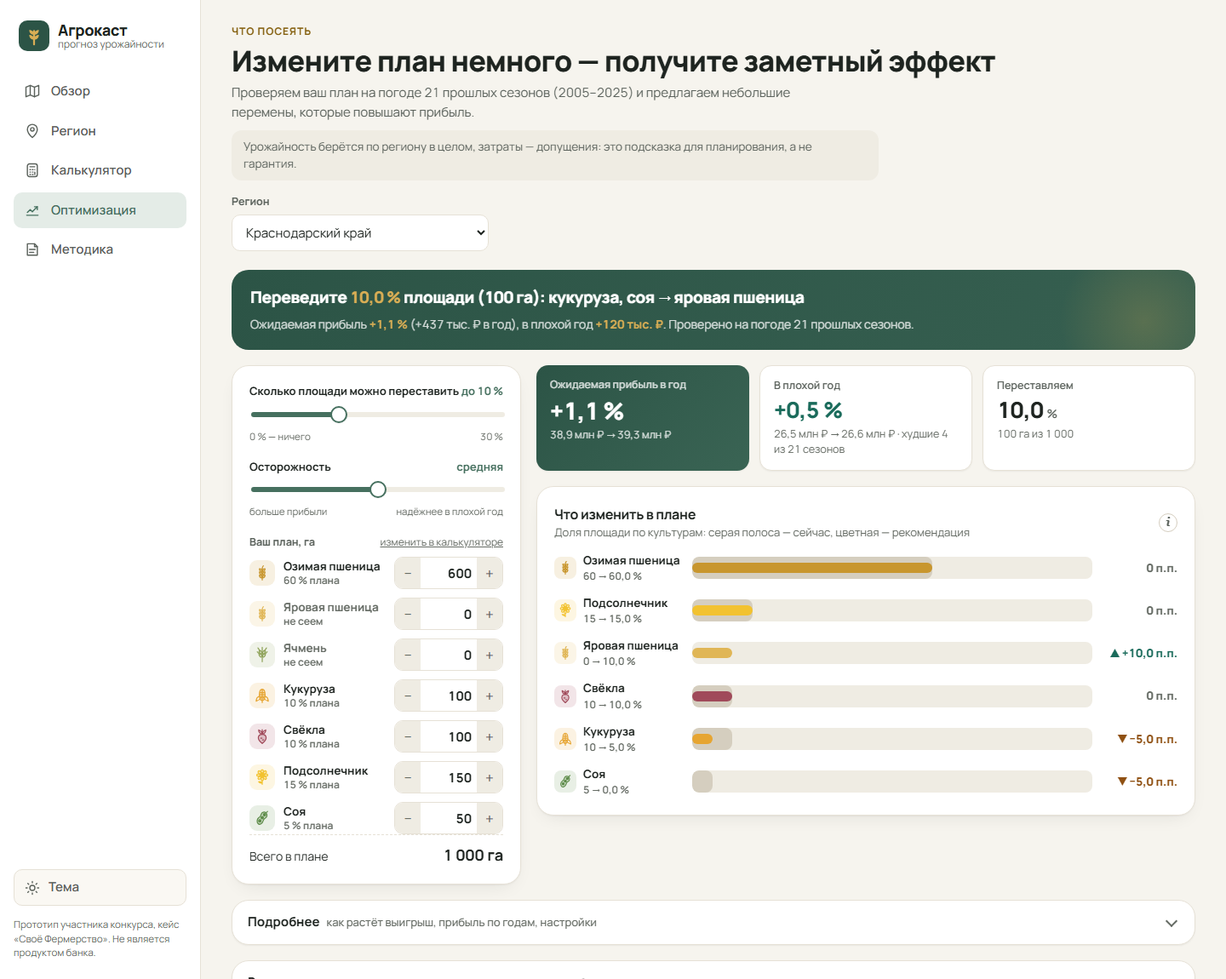
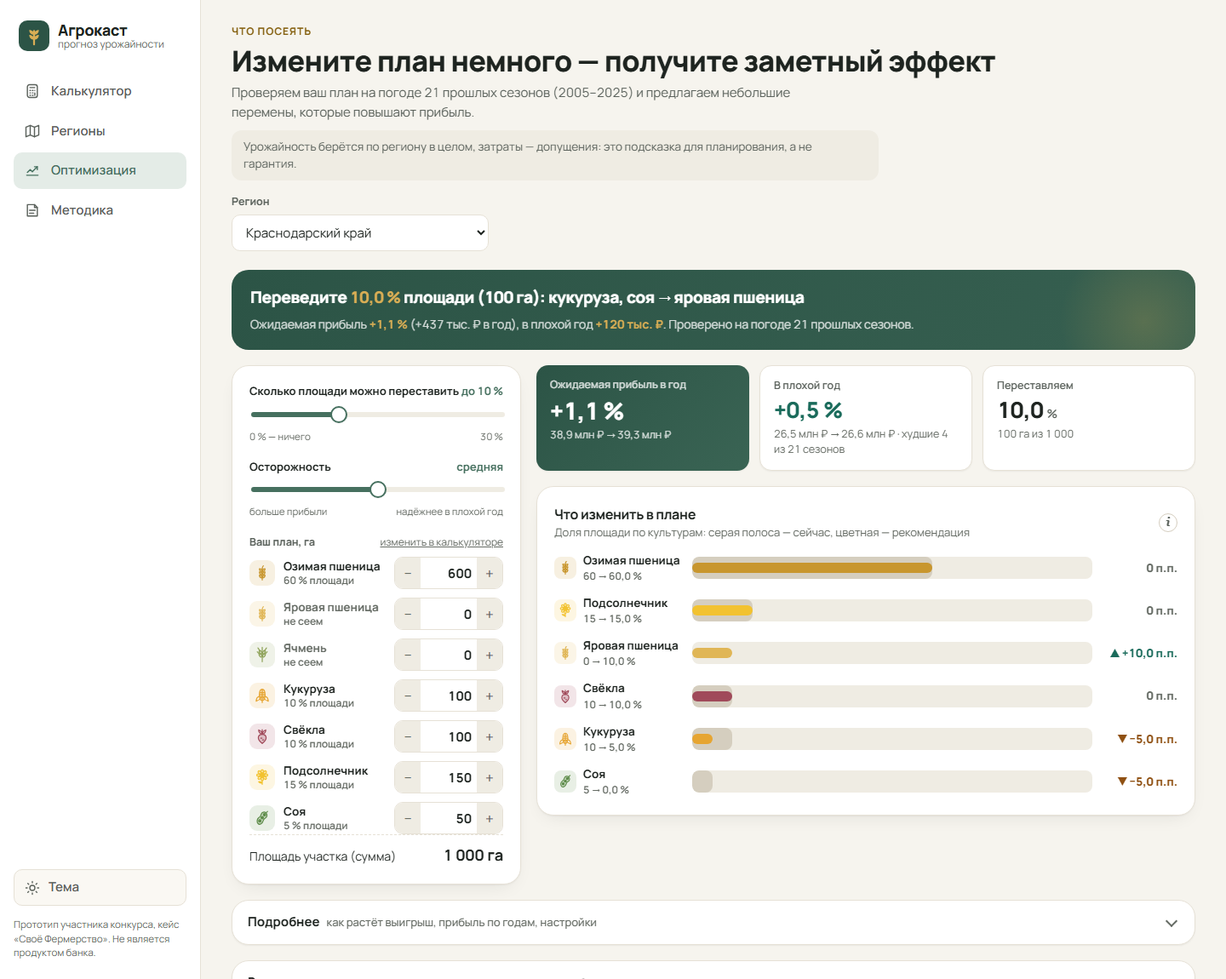
Site: product is the plot calculator (default page), regions as context

Changed region(s): [[0.0, 0.1217, 0.1562, 0.2739], [0.2188, 0.8217, 0.3125, 0.8826], [0.0312, 0.0913, 0.0938, 0.1217]]

diff --git a/web/js/calc.js b/web/js/calc.js
@@ -1,4 +1,4 @@
-// Экран «Калькулятор хозяйства»: план посевов в гектарах + поправки → урожайность, сбор, выручка, затраты, маржа.
+// Экран «Калькулятор участка»: параметры участка (регион, план в гектарах, почва, сорт, агротехника, дата) → результат по культурам.
 import { D, crop, regionName, regionsAll } from './data.js';
 import { cropIcon } from './icons.js';
 import { calcState, newCalc, presetPlan, clearPlan, syncPlan, cropEcon, ADJ, multipliers } from './econ.js';
@@ -18,14 +18,14 @@ export function haEditor(cfg, onChange) {
     </div>`;
   }).join('');
   const html = `<div class="ha-rows" id="haRows">${rowsHtml}</div>
-    <div class="ha-total"><span>Всего в плане</span><b class="num" id="haTotal"></b></div>`;
+    <div class="ha-total"><span>Площадь участка (сумма)</span><b class="num" id="haTotal"></b></div>`;
   const paint = (root) => {
     root.querySelectorAll('.ha-row').forEach((row) => {
       const cc = row.dataset.cc, v = Math.round(cfg.ha[cc] || 0);
       const inp = row.querySelector('input');
       if (document.activeElement !== inp) inp.value = v;
       row.classList.toggle('off', !v);
-      row.querySelector('.sh').textContent = cfg.area > 0 && v ? `${fmt((v / cfg.area) * 100, 0)} % плана` : 'не сеем';
+      row.querySelector('.sh').textContent = cfg.area > 0 && v ? `${fmt((v / cfg.area) * 100, 0)} % площади` : 'не сеем';
     });
     const t = root.querySelector('#haTotal');
     if (t) t.textContent = fmt(cfg.area, 0) + ' га';
@@ -46,38 +46,46 @@ export const planEditor = haEditor;
 const selectHtml = (id, list, val, label) => `<div class="field"><label for="${id}">${label}</label>
   <select class="select" id="${id}">${list.map((x) => `<option value="${x.id}" ${x.id === val ? 'selected' : ''}>${esc(x.label)}</option>`).join('')}</select></div>`;
 
+// Поповер «Как считается» — честно: что из модели, что допущение
+export const HOW = `<span class="how">Как считается ${info(
+  'Климат и погода региона и сезона — из обученной модели «тренд × погода» (данные ЕМИСС и ERA5). Это базовая урожайность «среднего хозяйства региона».',
+  'Влияние почвы, сорта и агротехники — множители-допущения: открытых данных об урожайности по сортам и агротехнике хозяйств нет, поэтому они не оценены по данным. Прогноз для вашего участка = прогноз региона, скорректированный на эти множители. Цены — ЕМИСС 2026, затраты на гектар — допущения.', 'left')}</span>`;
+
 export function renderCalc(el) {
   const cfg = calcState();
   const a = ADJ();
   el.innerHTML = `
   <div class="page-head">
     <div>
-      <div class="eyebrow">Калькулятор хозяйства</div>
-      <h1>Сколько соберёте и сколько заработаете</h1>
-      <p class="lead">Задайте, сколько гектаров под какой культурой, — получите урожайность, сбор, выручку и маржу.</p>
-      <span class="frame"><b>Как считаем:</b> берём прогноз по вашему региону в целом — так, как будто ваши поля урожайны, как в среднем по региону. Отличия ваших полей учтите поправками ниже.</span>
+      <div class="eyebrow">Калькулятор участка</div>
+      <h1>Рассчитайте урожай своего участка</h1>
+      <p class="lead">Введите регион, площадь, почву, сорт и агротехнику — получите урожайность в т/га, общий сбор, выручку и маржу для нескольких культур. Прогноз строится по погоде и данным вашего региона.</p>
+      <span class="frame">Прогноз для вашего участка = прогноз региона, скорректированный на почву, сорт и агротехнику. ${HOW}</span>
     </div>
     <a class="btn" href="#/optimize"><svg viewBox="0 0 24 24"><path d="M5 15l4-4 3 3 7-7"/><path d="M15 7h4v4"/></svg>Что посеять</a>
   </div>
-  <div class="grid g-calc">
-    <div class="card stack" style="gap:16px">
-      <div class="card-head" style="margin:0"><h3>Ваше хозяйство</h3></div>
-      <div class="field"><label for="cReg">Регион</label><select class="select" id="cReg">${regionsAll().map((r) => `<option value="${r}" ${r === cfg.region ? 'selected' : ''}>${esc(regionName(r))}</option>`).join('')}</select></div>
-      <div class="field"><label for="cDate">На какую дату считать</label><select class="select" id="cDate">${D.dates.map((d, i) => `<option value="${i}" ${i === cfg.dateIdx ? 'selected' : ''}>${isFinalDate(i) ? 'Итог сезона (по фактической погоде)' : 'Прогноз на ' + d.label}</option>`).join('')}</select><span class="hint" id="cDateNote"></span></div>
-      <div>
-        <div class="card-head" style="margin:4px 0 8px"><span class="field-label">План посевов, га</span>
-          <div class="preset-row"><button class="btn ghost" id="cPreset" type="button">Типовой план региона</button><button class="btn ghost" id="cClear" type="button">Очистить</button></div></div>
-        <div id="plan"></div>
+  <div class="card params">
+    <div class="card-head" style="margin-bottom:14px"><h3>Параметры участка</h3></div>
+    <div class="params-grid">
+      <div class="stack" style="gap:16px">
+        <div class="field"><label for="cReg">Регион</label><select class="select" id="cReg">${regionsAll().map((r) => `<option value="${r}" ${r === cfg.region ? 'selected' : ''}>${esc(regionName(r))}</option>`).join('')}</select></div>
+        <div class="field"><label for="cDate">На какую дату считать</label><select class="select" id="cDate">${D.dates.map((d, i) => `<option value="${i}" ${i === cfg.dateIdx ? 'selected' : ''}>${isFinalDate(i) ? 'Итог сезона (по фактической погоде)' : 'Прогноз на ' + d.label}</option>`).join('')}</select><span class="hint" id="cDateNote"></span></div>
       </div>
-      <div class="card-head" style="margin:6px 0 0"><h3>Поправки на ваши поля</h3>${info('Открытых данных о сорте, почве и агротехнике по отдельным полям нет, поэтому это ваши собственные поправки: они умножают прогноз региона.', 'Их можно оставить по умолчанию — тогда расчёт равен региональному.')}</div>
-      ${selectHtml('cSoil', a.soil, cfg.soil, 'Почва относительно региона')}
-      ${selectHtml('cVar', a.variety, cfg.variety, 'Сорт / гибрид')}
-      ${selectHtml('cTech', a.tech, cfg.tech, 'Агротехника')}
-      <div class="field"><label for="cAdj">Ваша поправка к урожайности, %</label><input class="input num" id="cAdj" type="number" min="-50" max="50" step="1" value="${cfg.adj || 0}"><span class="hint">Если по опыту ваши поля урожайнее (+) или слабее (−) средних по региону</span></div>
-      <div class="chip-note" id="multNote"></div>
+      <div class="stack" style="gap:16px">
+        ${selectHtml('cSoil', a.soil, cfg.soil, 'Почва участка относительно региона')}
+        ${selectHtml('cVar', a.variety, cfg.variety, 'Сорт семян')}
+        ${selectHtml('cTech', a.tech, cfg.tech, 'Агротехника')}
+        <div class="field"><label for="cAdj">Ваша поправка к урожайности, %</label><input class="input num" id="cAdj" type="number" min="-50" max="50" step="1" value="${cfg.adj || 0}"><span class="hint">Если по опыту ваши поля урожайнее (+) или слабее (−) средних по региону</span></div>
+        <div class="chip-note" id="multNote"></div>
+      </div>
     </div>
-    <div class="stack" id="out"></div>
-  </div>`;
+    <div style="margin-top:18px">
+      <div class="card-head" style="margin:0 0 10px"><span class="field-label">План посевов, га (площадь по культурам)</span>
+        <div class="preset-row"><button class="btn ghost" id="cPreset" type="button">Типовой план региона</button><button class="btn ghost" id="cClear" type="button">Очистить</button></div></div>
+      <div id="plan"></div>
+    </div>
+  </div>
+  <div class="stack" id="out" style="margin-top:18px"></div>`;
 
   const out = el.querySelector('#out');
   let marginChart = null;
@@ -103,7 +111,7 @@ export function renderCalc(el) {
   function update() {
     const m = multipliers(cfg);
     el.querySelector('#cDateNote').textContent = dateNote(cfg.dateIdx);
-    el.querySelector('#multNote').textContent = `Итого к региональному прогнозу: урожайность ×${fmt(m.y, 2)}, затраты ×${fmt(m.c, 2)}.`;
+    el.querySelector('#multNote').textContent = `Итого к прогнозу региона: урожайность ×${fmt(m.y, 2)}, затраты ×${fmt(m.c, 2)} (допущения).`;
     if (cfg.area <= 0) {
       out.innerHTML = `<div class="card empty-hint"><h3 style="margin-bottom:6px">Задайте план посевов</h3><p style="margin:0 0 14px">Введите гектары хотя бы по одной культуре — или возьмите типовой план региона.</p><button class="btn" id="cPreset2" type="button">Типовой план региона</button></div>`;
       out.querySelector('#cPreset2').addEventListener('click', () => { presetPlan(cfg, 1000); redraw(); });
@@ -116,33 +124,41 @@ export function renderCalc(el) {
       out.innerHTML = `
       <div class="kpis" id="cK" style="grid-template-columns:repeat(auto-fit,minmax(170px,1fr))"></div>
       <div class="card">
-        <div class="card-head"><div><h3>Что получится по культурам</h3><div class="sub" id="cSub"></div></div>${info('Урожайность — региональный прогноз итоговой модели с вашими поправками. Цены — средние цены производителей 2026 г. (ЕМИСС).', 'Затраты на гектар — допущения по открытым обзорам отрасли, не норматив.')}</div>
+        <div class="card-head"><div><h3>Что получится по культурам</h3><div class="sub" id="cSub"></div></div>${HOW}</div>
         <div class="table-wrap" id="cTbl"></div>
       </div>
-      <div class="card"><div class="card-head"><h3 id="cScenTitle">Плохой, обычный и хороший год</h3></div><div class="scen" id="cScen"></div>
-        <p class="chip-note" style="margin:12px 0 0">«Плохой» и «хороший» год — границы 80 % интервала: такой результат или хуже (лучше) бывает примерно раз в 10 лет.</p></div>
+      <div class="card"><div class="card-head"><h3>Плохой, обычный и хороший год</h3></div><div class="scen" id="cScen"></div>
+        <p class="chip-note" style="margin:12px 0 0">«Плохой» и «хороший» год — границы 80 % интервала прогноза: такой результат или хуже (лучше) бывает примерно раз в 10 лет.</p></div>
+      <div class="card gives" id="cGives"></div>
       <details class="more"><summary><span>Подробнее<small>маржа по культурам</small></span></summary><div class="more-body"><div class="chart" id="cMargin"></div></div></details>`;
       marginChart = null;
       out.querySelector('.more').addEventListener('toggle', (e) => { if (e.target.open) { marginChart = chart(out.querySelector('#cMargin')); update(); } });
     }
     out.querySelector('#cK').innerHTML = `
-      <div class="kpi"><div class="label">Сбор</div><div class="value num">${fmt(volT, 0)}<small>т</small></div><div class="foot">${fmt(cfg.area, 0)} га · ${rows.length} культур${rows.length === 1 ? 'а' : rows.length < 5 ? 'ы' : ''}</div></div>
+      <div class="kpi"><div class="label">Общий сбор</div><div class="value num">${fmt(volT, 0)}<small>т</small></div><div class="foot">${fmt(cfg.area, 0)} га · ${rows.length} культур${rows.length === 1 ? 'а' : rows.length < 5 ? 'ы' : ''}</div></div>
       <div class="kpi"><div class="label">Выручка</div><div class="value num">${fmtMoney(tot.revenue)}</div><div class="foot">затраты ${fmtMoney(tot.cost)} (допущение)</div></div>
       <div class="kpi hero"><div class="label">Маржа</div><div class="value num">${fmtMoney(tot.margin)}</div><div class="foot">${fmt(tot.margin / cfg.area / 1000, 1)} тыс. ₽ с гектара</div></div>`;
     out.querySelector('#cSub').textContent = `${regionName(cfg.region)} · ${fmt(cfg.area, 0)} га · ${isFinalDate(cfg.dateIdx) ? 'оценка по фактической погоде сезона' : 'прогноз на ' + D.dates[cfg.dateIdx].label}`;
 
-    out.querySelector('#cTbl').innerHTML = `<table class="table"><thead><tr><th>Культура</th><th>Площадь, га</th><th>Урожайность, т/га</th><th>Сбор, т</th><th>Выручка</th><th>Маржа</th></tr></thead><tbody>
+    out.querySelector('#cTbl').innerHTML = `<table class="table"><thead><tr><th>Культура</th><th>Площадь, га</th><th>Урожайность, т/га</th><th>Общий сбор, т</th><th>Выручка</th><th>Затраты</th><th>Маржа</th></tr></thead><tbody>
       ${rows.map((r) => { const c = crop(r.cc), dg = r.cc === '3060100' ? 1 : 2; return `<tr>
         <td><div class="crop-cell"><span class="ico" style="color:${c.color};background:${alpha(c.color, .14)}">${cropIcon(c)}</span>${c.short}</div></td>
         <td class="num">${fmt(r.ha, 0)}</td><td class="num"><b>${fmt(r.y.p50, dg)}</b><span class="sub-line">${fmt(r.y.p10, dg)}–${fmt(r.y.p90, dg)}</span></td>
-        <td class="num"><b>${fmt(r.vol, 0)}</b></td><td class="num">${fmtMoney(r.revenue)}<span class="sub-line">${fmt(r.price, 0)} ₽/т</span></td>
-        <td class="num" style="color:${r.margin >= 0 ? 'var(--pos)' : 'var(--neg)'}"><b>${fmtMoney(r.margin)}</b><span class="sub-line">затраты ${fmtMoney(r.cost)}</span></td></tr>`; }).join('')}
-      </tbody><tfoot><tr><td>Итого</td><td class="num">${fmt(cfg.area, 0)}</td><td></td><td class="num">${fmt(volT, 0)}</td><td class="num">${fmtMoney(tot.revenue)}</td><td class="num">${fmtMoney(tot.margin)}<span class="sub-line">затраты ${fmtMoney(tot.cost)}</span></td></tr></tfoot></table>`;
+        <td class="num"><b>${fmt(r.vol, 0)}</b></td><td class="num">${fmtMoney(r.revenue)}<span class="sub-line">${fmt(r.price, 0)} ₽/т</span></td><td class="num">${fmtMoney(r.cost)}</td>
+        <td class="num" style="color:${r.margin >= 0 ? 'var(--pos)' : 'var(--neg)'}"><b>${fmtMoney(r.margin)}</b></td></tr>`; }).join('')}
+      </tbody><tfoot><tr><td>Итого</td><td class="num">${fmt(cfg.area, 0)}</td><td></td><td class="num">${fmt(volT, 0)}</td><td class="num">${fmtMoney(tot.revenue)}</td><td class="num">${fmtMoney(tot.cost)}</td><td class="num">${fmtMoney(tot.margin)}</td></tr></tfoot></table>`;
 
     out.querySelector('#cScen').innerHTML = `
       <div class="bad"><div class="t">Плохой год</div><div class="v num">${fmtMoney(tot.lo)}</div><div class="f">маржа, раз в ~10 лет хуже</div></div>
       <div><div class="t">Обычный год</div><div class="v num">${fmtMoney(tot.margin)}</div><div class="f">ожидаемая маржа</div></div>
       <div class="good"><div class="t">Хороший год</div><div class="v num">${fmtMoney(tot.hi)}</div><div class="f">маржа, раз в ~10 лет лучше</div></div>`;
+
+    out.querySelector('#cGives').innerHTML = `<div class="card-head"><h3>Что это даёт для планирования</h3></div>
+      <ul class="gives-list">
+        <li><b>Затраты.</b> На сезон понадобится около <b>${fmtMoney(tot.cost)}</b> (${fmt(tot.cost / cfg.area / 1000, 0)} тыс. ₽ на гектар, допущение) — столько нужно иметь или привлечь до посевной.</li>
+        <li><b>Доход.</b> В обычный год выручка около <b>${fmtMoney(tot.revenue)}</b>, маржа ${fmtMoney(tot.margin)}; в плохой год маржа ${tot.lo >= 0 ? 'остаётся' : 'уходит в минус:'} <b>${fmtMoney(tot.lo)}</b>, в хороший — ${fmtMoney(tot.hi)}. Запас на плохой год стоит заложить заранее.</li>
+        <li><b>Что менять.</b> Небольшой перенос площади между культурами может поднять прибыль и сделать плохой год мягче. <a href="#/optimize">Посмотреть в оптимизации →</a></li>
+      </ul>`;
 
     if (marginChart) {
       marginChart.setOption(opt({

diff --git a/web/js/overview.js b/web/js/overview.js
@@ -58,15 +58,15 @@ export function renderOverview(el) {
   el.innerHTML = `
   <div class="page-head" style="margin-bottom:14px">
     <div>
-      <div class="eyebrow">Сезон 2026</div>
+      <div class="eyebrow">Регионы · сезон 2026</div>
       <h1>Прогноз урожайности по регионам России</h1>
-      <p class="lead">Прогноз на каждый месяц сезона и подсказка, как немного изменить посевы, чтобы заработать больше.</p>
-      <span class="frame">Прогноз — для региона в целом (среднее по хозяйствам субъекта), а не для отдельного поля.</span>
+      <p class="lead">Региональная модель — основа калькулятора участка: где и насколько урожай ожидается выше или ниже обычного.</p>
+      <span class="frame">Это прогноз для региона в целом (среднее по хозяйствам субъекта), а не для отдельного поля.</span>
     </div>
   </div>
   <nav class="entry" aria-label="Разделы">
-    <a href="#/overview" class="here" id="goMap"><span class="ei">${IC.map}</span><span><b>Прогноз по регионам</b><small>Карта: где урожай выше или ниже обычного</small></span></a>
-    <a href="#/calc"><span class="ei">${IC.calc}</span><span><b>Калькулятор хозяйства</b><small>Сбор, выручка и маржа по вашему плану</small></span></a>
+    <a href="#/calc" class="here"><span class="ei">${IC.calc}</span><span><b>Рассчитать урожай моего участка</b><small>Регион, площадь, почва, сорт, агротехника → т/га, сбор, маржа</small></span></a>
+    <a href="#/overview" id="goMap"><span class="ei">${IC.map}</span><span><b>Прогноз по регионам</b><small>Карта: где урожай выше или ниже обычного</small></span></a>
     <a href="#/optimize"><span class="ei">${IC.opt}</span><span><b>Что посеять</b><small>Как немного изменить план ради прибыли</small></span></a>
   </nav>
   <div class="toolbar" style="margin-bottom:14px" id="cropBar"></div>

diff --git a/web/index.html b/web/index.html
@@ -17,16 +17,15 @@
 <body>
   <div class="app">
     <aside class="sidebar">
-      <a class="brand" href="#/overview">
+      <a class="brand" href="#/calc">
         <span class="brand-mark" aria-hidden="true">
           <svg viewBox="0 0 32 32"><rect width="32" height="32" rx="9" fill="var(--brand)"/><path d="M16 25V11" stroke="var(--gold)" stroke-width="2" stroke-linecap="round"/><path d="M16 15c-3.2 0-5-2-5-5 3.2 0 5 2 5 5Zm0 0c3.2 0 5-2 5-5-3.2 0-5 2-5 5Zm0 5c-3.2 0-5-2-5-5 3.2 0 5 2 5 5Zm0 0c3.2 0 5-2 5-5-3.2 0-5 2-5 5Z" fill="var(--gold)"/></svg>
         </span>
         <span class="brand-text"><b>Агрокаст</b><small>прогноз урожайности</small></span>
       </a>
       <nav class="nav" id="nav">
-        <a href="#/overview" data-route="overview"><svg viewBox="0 0 24 24"><path d="M3 6.5 9 4l6 2.5L21 4v13.5L15 20l-6-2.5L3 20V6.5Z"/><path d="M9 4v13.5M15 6.5V20"/></svg><span>Обзор</span></a>
-        <a href="#/region" data-route="region"><svg viewBox="0 0 24 24"><path d="M12 21s-7-6.1-7-11.5A7 7 0 0 1 19 9.5C19 14.9 12 21 12 21Z"/><circle cx="12" cy="9.5" r="2.5"/></svg><span>Регион</span></a>
         <a href="#/calc" data-route="calc"><svg viewBox="0 0 24 24"><rect x="5" y="3" width="14" height="18" rx="3"/><path d="M8.5 7h7M8.5 11h1M12 11h1M15.5 11h0M8.5 14.5h1M12 14.5h1M8.5 18h1M12 18h1M15.5 14.5V18"/></svg><span>Калькулятор</span></a>
+        <a href="#/overview" data-route="overview"><svg viewBox="0 0 24 24"><path d="M3 6.5 9 4l6 2.5L21 4v13.5L15 20l-6-2.5L3 20V6.5Z"/><path d="M9 4v13.5M15 6.5V20"/></svg><span>Регионы</span></a>
         <a href="#/optimize" data-route="optimize"><svg viewBox="0 0 24 24"><path d="M4 19h16"/><path d="M5 15l4-4 3 3 7-7"/><path d="M15 7h4v4"/></svg><span>Оптимизация</span></a>
         <a href="#/method" data-route="method"><svg viewBox="0 0 24 24"><path d="M5 4h10l4 4v12H5z"/><path d="M15 4v4h4M8 12h8M8 16h6"/></svg><span>Методика</span></a>
       </nav>

diff --git a/web/css/app.css b/web/css/app.css
@@ -471,3 +471,15 @@ input[type="range"]:active::-webkit-slider-thumb { transform: scale(1.15); }
 @media (max-width: 1180px) { .g-calc { grid-template-columns: 1fr; } }
 
 @media (max-width: 520px) { #cK .kpi.hero { grid-column: 1 / -1; } }
+
+/* v3: калькулятор участка — параметры сверху, результат ниже */
+.params { padding: 20px 22px; }
+.params-grid { display: grid; grid-template-columns: repeat(2, minmax(0, 1fr)); gap: 20px 32px; }
+.how { display: inline-flex; align-items: center; gap: 6px; font-size: 13px; font-weight: 600; color: var(--text-2); white-space: nowrap; }
+.info.left .pop { right: auto; left: 0; }
+.gives-list { margin: 0; padding-left: 18px; display: flex; flex-direction: column; gap: 10px; color: var(--text-2); font-size: 14px; }
+.gives-list b { color: var(--text); }
+.map-wrap { aspect-ratio: 2; max-height: 470px; }
+@media (min-width: 861px) and (max-width: 1360px) { #out .table .crop-cell .ico { display: grid; } }
+@media (max-width: 860px) { .params-grid { grid-template-columns: 1fr; } .params { padding: 16px; } .map-wrap { aspect-ratio: 1.55; } }
+.params .ha-rows { display: grid; grid-template-columns: repeat(auto-fill, minmax(290px, 1fr)); gap: 12px 32px; }

diff --git a/web/js/util.js b/web/js/util.js
@@ -41,8 +41,8 @@ export const isDark = () => {
 };
 
 // Компактный значок «i» с поповером «Данные и допущения» вместо россыпи плашек
-export const info = (what, details = '') =>
-  `<details class="info"><summary aria-label="Данные и допущения" title="Данные и допущения">i</summary><div class="pop"><b>Данные и допущения</b><p>${esc(what)}${details ? '<br><span>' + esc(details) + '</span>' : ''}</p></div></details>`;
+export const info = (what, details = '', align = '') =>
+  `<details class="info ${align}"><summary aria-label="Данные и допущения" title="Данные и допущения">i</summary><div class="pop"><b>Данные и допущения</b><p>${esc(what)}${details ? '<br><span>' + esc(details) + '</span>' : ''}</p></div></details>`;
 export const demoBadge = (text = 'Демо-данные', title = '') => info(text, title);
 export const realBadge = (text = 'Данные', title = '') => info(text, title);
 

diff --git a/web/js/app.js b/web/js/app.js
@@ -12,10 +12,10 @@ const main = document.getElementById('main');
 
 function route() {
   const [path, query = ''] = location.hash.split('?');
-  const [, name = 'overview', arg] = path.split('/');
-  const r = ROUTES[name] ? name : 'overview';
+  const [, name = 'calc', arg] = path.split('/');
+  const r = ROUTES[name] ? name : 'calc';
   if (r === 'region' && arg) state.region = arg;
-  document.querySelectorAll('#nav a').forEach((a) => a.classList.toggle('active', a.dataset.route === r));
+  document.querySelectorAll('#nav a').forEach((a) => a.classList.toggle('active', a.dataset.route === (r === 'region' ? 'overview' : r)));
   disposeCharts();
   main.innerHTML = '';
   const page = document.createElement('div');

diff --git a/web/README.md b/web/README.md
@@ -24,14 +24,16 @@ uv run python -I -X utf8 src/web_export/make_mock.py
 
 ## Экраны и принцип подачи
 
-Принцип: сначала одна главная мысль, подробности раскрываются по запросу («Подробнее», вкладки). Везде сказано, что прогноз — **для региона в целом** (среднее по хозяйствам субъекта), а не для отдельного поля.
+Продукт — **калькулятор участка** (задание кейса: ввод параметров участка → т/га и общий объём → польза для затрат и доходов). Он открывается по умолчанию. Региональная модель — «под капотом»; карта и региональный прогноз — раздел контекста. Принцип подачи: сначала одна главная мысль, подробности — по запросу («Подробнее», вкладки).
+
+Честная формулировка: климат и погода региона и сезона — из обученной модели; влияние почвы, сорта и агротехники — множители-допущения (открытых данных об урожайности по сортам и агротехнике хозяйств нет). Прогноз для участка = прогноз региона («среднего хозяйства региона»), скорректированный на почву, сорт и агротехнику. Это сказано в поповере «Как считается».
 
 | экран | адрес | на первом экране | по запросу |
 |---|---|---|---|
-| Обзор | `#/overview` | Фраза «что это», три входа (карта / калькулятор / что посеять), выбор культуры, карта, одно число — сбор по России, компактный переключатель даты | «Подробнее»: как уточняется прогноз, регионы выше и ниже обычного, крупнейшие регионы |
-| Регион | `#/region/<okato>` | Вывод одной фразой, 4 числа, главный график (история + веер прогноза) | Вкладки: почему такой прогноз (факторы), погода сезона, почвы, все культуры региона |
-| Калькулятор | `#/calc` | План посевов **в гектарах** по каждой культуре (поля независимы, доли — подпись), поправки на ваши поля, сбор / выручка / маржа, таблица по культурам, плохой / обычный / хороший год | «Подробнее»: маржа по культурам |
-| Что посеять | `#/optimize` | Вывод («Переведите X % площади…»), ползунки переноса и осторожности, «было → стало» | «Подробнее»: кривая «сколько меняем → сколько выигрываем», прибыль по сезонам, допущения; «Весь регион целиком» |
+| Калькулятор (по умолчанию) | `#/calc` | «Параметры участка»: регион, дата, почва, сорт семян, агротехника, своя поправка, план посевов **в гектарах** по культурам (независимые поля); ниже — общий сбор, выручка, маржа, таблица по культурам (т/га, сбор, выручка, затраты, маржа), плохой / обычный / хороший год, блок «Что это даёт для планирования» | «Подробнее»: маржа по культурам; поповер «Как считается» |
+| Регионы | `#/overview` | Главный вход «Рассчитать урожай моего участка» + «Прогноз по регионам» и «Что посеять», карта России, одно число — сбор по России, переключатель даты | «Подробнее»: как уточняется прогноз, регионы выше и ниже обычного; клик по региону — карточка |
+| Карточка региона | `#/region/<okato>` | Вывод одной фразой, 4 числа, главный график (история + веер прогноза) | Вкладки: почему такой прогноз, погода сезона, почвы, все культуры региона |
+| Оптимизация | `#/optimize` | Вывод («Переведите X % площади…»), ползунки переноса и осторожности, «было → стало» | «Подробнее»: кривая «сколько меняем → сколько выигрываем», прибыль по сезонам, допущения; «Весь регион целиком» |
 | Методика | `#/method` | Источники, схема расчёта | точность против простых правил, ограничения |
 
 - Дата прогноза: 1 мая … 1 августа — прогноз; «Итог сезона» — **оценка по фактической погоде сезона**, а не прогноз (так подписано везде).
